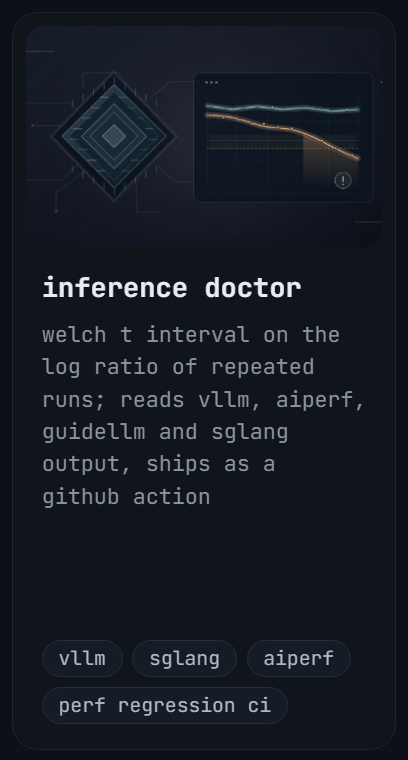
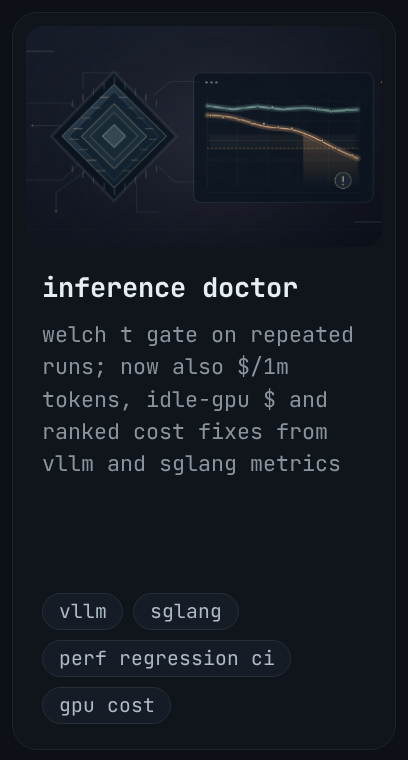
inference doctor card: 0.5.0 cost view

diff --git a/README.md b/README.md
@@ -1,1 +1,1 @@
-<p><a href="https://github.com/vllm-project/production-stack/pull/1089"><picture><source media="(prefers-color-scheme: dark)" srcset="https://raw.githubusercontent.com/dundysm/dundysm/main/img/dark/00-0.png"><img src="https://raw.githubusercontent.com/dundysm/dundysm/main/img/light/00-0.png" width="50.0%" align="top" alt="vllm-project/production-stack#1089: prefix-aware routing fell back to windowed qps, which pinned sessions to saturated backends; now least-inflight"></picture></a><a href="https://github.com/google-deepmind/mujoco_menagerie/pull/334"><picture><source media="(prefers-color-scheme: dark)" srcset="https://raw.githubusercontent.com/dundysm/dundysm/main/img/dark/00-1.png"><img src="https://raw.githubusercontent.com/dundysm/dundysm/main/img/light/00-1.png" width="50.0%" align="top" alt="google-deepmind/mujoco_menagerie#334: go2 mjx back-thigh range and calf torque (24 vs 45.43 nm) had drifted from the urdf; now they match"></picture></a><a href="https://github.com/ray-project/ray/pull/66307"><picture><source media="(prefers-color-scheme: dark)" srcset="https://raw.githubusercontent.com/dundysm/dundysm/main/img/dark/01-0.png"><img src="https://raw.githubusercontent.com/dundysm/dundysm/main/img/light/01-0.png" width="50.0%" align="top" alt="ray-project/ray#66307: handle-metric staleness compared clocks across machines; now aged by the controller&#x27;s monotonic receive time"></picture></a><a href="https://github.com/moveit/moveit2/pull/3853"><picture><source media="(prefers-color-scheme: dark)" srcset="https://raw.githubusercontent.com/dundysm/dundysm/main/img/dark/01-1.png"><img src="https://raw.githubusercontent.com/dundysm/dundysm/main/img/light/01-1.png" width="50.0%" align="top" alt="moveit/moveit2#3853: execution_complete_ was a plain bool read outside its mutex, a c++ data race; now std::atomic"></picture></a><a href="https://github.com/ai-dynamo/dynamo/pull/15371"><picture><source media="(prefers-color-scheme: dark)" srcset="https://raw.githubusercontent.com/dundysm/dundysm/main/img/dark/02-0.png"><img src="https://raw.githubusercontent.com/dundysm/dundysm/main/img/light/02-0.png" width="50.0%" align="top" alt="ai-dynamo/dynamo#15371: p/d decode dropped multi_modal_data, so same-size images collided in the prefix cache and reused each other&#x27;s kv"></picture></a><a href="https://github.com/newton-physics/newton/pull/4780"><picture><source media="(prefers-color-scheme: dark)" srcset="https://raw.githubusercontent.com/dundysm/dundysm/main/img/dark/02-1.png"><img src="https://raw.githubusercontent.com/dundysm/dundysm/main/img/light/02-1.png" width="50.0%" align="top" alt="newton-physics/newton#4780: mjcf import parsed a mesh file again for every geom using it; now once per import (go2: 1924 → 972 ms)"></picture></a><a href="https://github.com/NVIDIA/TensorRT-Model-Connect/pull/1284"><picture><source media="(prefers-color-scheme: dark)" srcset="https://raw.githubusercontent.com/dundysm/dundysm/main/img/dark/03-0.png"><img src="https://raw.githubusercontent.com/dundysm/dundysm/main/img/light/03-0.png" width="50.0%" align="top" alt="NVIDIA/TensorRT-Model-Connect#1284: zephyr and tinyllama chat templates were misdetected as phi, so the first decode step returned eos"></picture></a><a href="https://github.com/Roboparty/rpo_description/pull/5"><picture><source media="(prefers-color-scheme: dark)" srcset="https://raw.githubusercontent.com/dundysm/dundysm/main/img/dark/03-1.png"><img src="https://raw.githubusercontent.com/dundysm/dundysm/main/img/light/03-1.png" width="50.0%" align="top" alt="Roboparty/rpo_description#5: 15 mjcf joint ranges and every motor limit had drifted from the urdf; synced, plus a script that fails on drift"></picture></a><a href="https://github.com/ai-dynamo/aiperf/pull/1419"><picture><source media="(prefers-color-scheme: dark)" srcset="https://raw.githubusercontent.com/dundysm/dundysm/main/img/dark/04-0.png"><img src="https://raw.githubusercontent.com/dundysm/dundysm/main/img/light/04-0.png" width="50.0%" align="top" alt="ai-dynamo/aiperf#1419: a missing dcgm hostname label failed validation inside a swallowed task and hung aiperf profile"></picture></a><a href="https://github.com/Roboparty/human-humanoid-tools/pull/14"><picture><source media="(prefers-color-scheme: dark)" srcset="https://raw.githubusercontent.com/dundysm/dundysm/main/img/dark/04-1.png"><img src="https://raw.githubusercontent.com/dundysm/dundysm/main/img/light/04-1.png" width="50.0%" align="top" alt="Roboparty/human-humanoid-tools#14: the wheel never shipped the reference poses, so lafan retargeting fell back to a synthetic rest pose; now packaged"></picture></a><a href="https://github.com/kubernetes-sigs/kueue/pull/16630"><picture><source media="(prefers-color-scheme: dark)" srcset="https://raw.githubusercontent.com/dundysm/dundysm/main/img/dark/05-0.png"><img src="https://raw.githubusercontent.com/dundysm/dundysm/main/img/light/05-0.png" width="50.0%" align="top" alt="kubernetes-sigs/kueue#16630: a new leader could schedule from a half-filled cache, so occupied nodes looked free and cohort quota went missing; now it waits for the initial sync"></picture></a><a href="https://github.com/flashinfer-ai/flashinfer/pull/5335"><picture><source media="(prefers-color-scheme: dark)" srcset="https://raw.githubusercontent.com/dundysm/dundysm/main/img/dark/05-1.png"><img src="https://raw.githubusercontent.com/dundysm/dundysm/main/img/light/05-1.png" width="50.0%" align="top" alt="flashinfer-ai/flashinfer#5335: the blackwell gdn kernel freed a tmem stage while loads from it were in flight, so the next mma could overwrite it; now fenced"></picture></a><a href="https://github.com/NVIDIA/gpu-operator/pull/2843"><picture><source media="(prefers-color-scheme: dark)" srcset="https://raw.githubusercontent.com/dundysm/dundysm/main/img/dark/06-0.png"><img src="https://raw.githubusercontent.com/dundysm/dundysm/main/img/light/06-0.png" width="50.0%" align="top" alt="NVIDIA/gpu-operator#2843: the operator and its helm hook jobs ran without a securityContext; restricted defaults for k8s and openshift"></picture></a><a href="https://github.com/NVIDIA/TransformerEngine/pull/3565"><picture><source media="(prefers-color-scheme: dark)" srcset="https://raw.githubusercontent.com/dundysm/dundysm/main/img/dark/06-1.png"><img src="https://raw.githubusercontent.com/dundysm/dundysm/main/img/light/06-1.png" width="50.0%" align="top" alt="NVIDIA/TransformerEngine#3565: non-fp8 gemm never set cublaslt&#x27;s bias dtype, so a bf16 bias read as fp32 ran out of bounds; now rejected"></picture></a><a href="https://github.com/Mellanox/network-operator/pull/3189"><picture><source media="(prefers-color-scheme: dark)" srcset="https://raw.githubusercontent.com/dundysm/dundysm/main/img/dark/07-0.png"><img src="https://raw.githubusercontent.com/dundysm/dundysm/main/img/light/07-0.png" width="50.0%" align="top" alt="Mellanox/network-operator#3189: the rdma shared device plugin assumed /var/lib/kubelet; the kubelet root is now configurable through helm"></picture></a><a href="https://github.com/huggingface/candle/pull/3973"><picture><source media="(prefers-color-scheme: dark)" srcset="https://raw.githubusercontent.com/dundysm/dundysm/main/img/dark/07-1.png"><img src="https://raw.githubusercontent.com/dundysm/dundysm/main/img/light/07-1.png" width="50.0%" align="top" alt="huggingface/candle#3973: rms_norm always failed on an unconditional bias lookup and lazy VarMap init broke; both work again"></picture></a><a href="https://github.com/Mellanox/maintenance-operator/pull/243"><picture><source media="(prefers-color-scheme: dark)" srcset="https://raw.githubusercontent.com/dundysm/dundysm/main/img/dark/08-0.png"><img src="https://raw.githubusercontent.com/dundysm/dundysm/main/img/light/08-0.png" width="50.0%" align="top" alt="Mellanox/maintenance-operator#243: the controller oomkilled at 128Mi on ~141 nodes (idle 130-156Mi); raised to 256Mi with sizing guidance"></picture></a><a href="https://github.com/NVIDIA-NeMo/Automodel/pull/3999"><picture><source media="(prefers-color-scheme: dark)" srcset="https://raw.githubusercontent.com/dundysm/dundysm/main/img/dark/08-1.png"><img src="https://raw.githubusercontent.com/dundysm/dundysm/main/img/light/08-1.png" width="50.0%" align="top" alt="NVIDIA-NeMo/Automodel#3999: nemotron-h checkpoints saved with a singular embedding key failed dtensor load; both key forms now map"></picture></a><a href="https://github.com/search?q=author%3Adundysm+is%3Apr+is%3Aopen+-user%3Adundysm&amp;type=pullrequests"><picture><source media="(prefers-color-scheme: dark)" srcset="https://raw.githubusercontent.com/dundysm/dundysm/main/img/dark/09-0.png"><img src="https://raw.githubusercontent.com/dundysm/dundysm/main/img/light/09-0.png" width="100%" align="top" alt="in progress: open prs upstream; built"></picture></a><a href="https://github.com/dundysm/occlubench"><picture><source media="(prefers-color-scheme: dark)" srcset="https://raw.githubusercontent.com/dundysm/dundysm/main/img/dark/10-0.png"><img src="https://raw.githubusercontent.com/dundysm/dundysm/main/img/light/10-0.png" width="25.0306%" align="top" alt="occlubench: a mocap plate slides into one camera mid-episode; every occluded rollout is paired with a clean one, on mujoco warp"></picture></a><a href="https://github.com/dundysm/inference-under-pressure"><picture><source media="(prefers-color-scheme: dark)" srcset="https://raw.githubusercontent.com/dundysm/dundysm/main/img/dark/10-1.png"><img src="https://raw.githubusercontent.com/dundysm/dundysm/main/img/light/10-1.png" width="24.9693%" align="top" alt="inference under pressure: pre-registered vllm + dynamo experiments on kv budget, session affinity and kv-aware routing, from one a40 to 2× l40s"></picture></a><a href="https://github.com/dundysm/gaitkeeper"><picture><source media="(prefers-color-scheme: dark)" srcset="https://raw.githubusercontent.com/dundysm/dundysm/main/img/dark/10-2.png"><img src="https://raw.githubusercontent.com/dundysm/dundysm/main/img/light/10-2.png" width="24.9693%" align="top" alt="gaitkeeper: checks obs → action → effort → next state against a golden trace to tell contract, physics and task failures apart"></picture></a><a href="https://github.com/dundysm/inference-doctor"><picture><source media="(prefers-color-scheme: dark)" srcset="https://raw.githubusercontent.com/dundysm/dundysm/main/img/dark/10-3.png"><img src="https://raw.githubusercontent.com/dundysm/dundysm/main/img/light/10-3.png" width="25.0306%" align="top" alt="inference doctor: welch t interval on the log ratio of repeated runs; reads vllm, aiperf, guidellm and sglang output, ships as a github action"></picture></a><a href="https://dundysm.github.io/center-of-mass/"><picture><source media="(prefers-color-scheme: dark)" srcset="https://raw.githubusercontent.com/dundysm/dundysm/main/img/dark/11-0.png"><img src="https://raw.githubusercontent.com/dundysm/dundysm/main/img/light/11-0.png" width="25.0306%" align="top" alt="center of mass: mujoco wasm at 200 hz runs unitree&#x27;s g1 policy at 50 hz; a gaussian-splat scan becomes collision boxes with a* paths"></picture></a><a href="https://dundysm.github.io/forgetting/"><picture><source media="(prefers-color-scheme: dark)" srcset="https://raw.githubusercontent.com/dundysm/dundysm/main/img/dark/11-1.png"><img src="https://raw.githubusercontent.com/dundysm/dundysm/main/img/light/11-1.png" width="24.9693%" align="top" alt="forgetting: replays vllm v1&#x27;s lru block manager over measured runs; each kv token slot is a point on an mri-derived cortex in three.js"></picture></a><a href="https://chromewebstore.google.com/detail/retinaflow/pldbmpjgjikjadekeikikhomahjeplee"><picture><source media="(prefers-color-scheme: dark)" srcset="https://raw.githubusercontent.com/dundysm/dundysm/main/img/dark/11-2.png"><img src="https://raw.githubusercontent.com/dundysm/dundysm/main/img/light/11-2.png" width="24.9693%" align="top" alt="retinaflow: mv3 extension: web speech dictation → claude via a cloudflare worker → an action plan that fills the emr&#x27;s exam and plan fields"></picture></a><a href="https://github.com/dundysm/sea-of-fog"><picture><source media="(prefers-color-scheme: dark)" srcset="https://raw.githubusercontent.com/dundysm/dundysm/main/img/dark/11-3.png"><img src="https://raw.githubusercontent.com/dundysm/dundysm/main/img/light/11-3.png" width="25.0306%" align="top" alt="sea of fog: typesafe&#x27;s new jev model takes napoleon&#x27;s bait at austerlitz 79% of the time; one warning line cuts that to 44%"></picture></a></p>
+<p><a href="https://github.com/vllm-project/production-stack/pull/1089"><picture><source media="(prefers-color-scheme: dark)" srcset="https://raw.githubusercontent.com/dundysm/dundysm/main/img/dark/00-0.png"><img src="https://raw.githubusercontent.com/dundysm/dundysm/main/img/light/00-0.png" width="50.0%" align="top" alt="vllm-project/production-stack#1089: prefix-aware routing fell back to windowed qps, which pinned sessions to saturated backends; now least-inflight"></picture></a><a href="https://github.com/google-deepmind/mujoco_menagerie/pull/334"><picture><source media="(prefers-color-scheme: dark)" srcset="https://raw.githubusercontent.com/dundysm/dundysm/main/img/dark/00-1.png"><img src="https://raw.githubusercontent.com/dundysm/dundysm/main/img/light/00-1.png" width="50.0%" align="top" alt="google-deepmind/mujoco_menagerie#334: go2 mjx back-thigh range and calf torque (24 vs 45.43 nm) had drifted from the urdf; now they match"></picture></a><a href="https://github.com/ray-project/ray/pull/66307"><picture><source media="(prefers-color-scheme: dark)" srcset="https://raw.githubusercontent.com/dundysm/dundysm/main/img/dark/01-0.png"><img src="https://raw.githubusercontent.com/dundysm/dundysm/main/img/light/01-0.png" width="50.0%" align="top" alt="ray-project/ray#66307: handle-metric staleness compared clocks across machines; now aged by the controller&#x27;s monotonic receive time"></picture></a><a href="https://github.com/moveit/moveit2/pull/3853"><picture><source media="(prefers-color-scheme: dark)" srcset="https://raw.githubusercontent.com/dundysm/dundysm/main/img/dark/01-1.png"><img src="https://raw.githubusercontent.com/dundysm/dundysm/main/img/light/01-1.png" width="50.0%" align="top" alt="moveit/moveit2#3853: execution_complete_ was a plain bool read outside its mutex, a c++ data race; now std::atomic"></picture></a><a href="https://github.com/ai-dynamo/dynamo/pull/15371"><picture><source media="(prefers-color-scheme: dark)" srcset="https://raw.githubusercontent.com/dundysm/dundysm/main/img/dark/02-0.png"><img src="https://raw.githubusercontent.com/dundysm/dundysm/main/img/light/02-0.png" width="50.0%" align="top" alt="ai-dynamo/dynamo#15371: p/d decode dropped multi_modal_data, so same-size images collided in the prefix cache and reused each other&#x27;s kv"></picture></a><a href="https://github.com/newton-physics/newton/pull/4780"><picture><source media="(prefers-color-scheme: dark)" srcset="https://raw.githubusercontent.com/dundysm/dundysm/main/img/dark/02-1.png"><img src="https://raw.githubusercontent.com/dundysm/dundysm/main/img/light/02-1.png" width="50.0%" align="top" alt="newton-physics/newton#4780: mjcf import parsed a mesh file again for every geom using it; now once per import (go2: 1924 → 972 ms)"></picture></a><a href="https://github.com/NVIDIA/TensorRT-Model-Connect/pull/1284"><picture><source media="(prefers-color-scheme: dark)" srcset="https://raw.githubusercontent.com/dundysm/dundysm/main/img/dark/03-0.png"><img src="https://raw.githubusercontent.com/dundysm/dundysm/main/img/light/03-0.png" width="50.0%" align="top" alt="NVIDIA/TensorRT-Model-Connect#1284: zephyr and tinyllama chat templates were misdetected as phi, so the first decode step returned eos"></picture></a><a href="https://github.com/Roboparty/rpo_description/pull/5"><picture><source media="(prefers-color-scheme: dark)" srcset="https://raw.githubusercontent.com/dundysm/dundysm/main/img/dark/03-1.png"><img src="https://raw.githubusercontent.com/dundysm/dundysm/main/img/light/03-1.png" width="50.0%" align="top" alt="Roboparty/rpo_description#5: 15 mjcf joint ranges and every motor limit had drifted from the urdf; synced, plus a script that fails on drift"></picture></a><a href="https://github.com/ai-dynamo/aiperf/pull/1419"><picture><source media="(prefers-color-scheme: dark)" srcset="https://raw.githubusercontent.com/dundysm/dundysm/main/img/dark/04-0.png"><img src="https://raw.githubusercontent.com/dundysm/dundysm/main/img/light/04-0.png" width="50.0%" align="top" alt="ai-dynamo/aiperf#1419: a missing dcgm hostname label failed validation inside a swallowed task and hung aiperf profile"></picture></a><a href="https://github.com/Roboparty/human-humanoid-tools/pull/14"><picture><source media="(prefers-color-scheme: dark)" srcset="https://raw.githubusercontent.com/dundysm/dundysm/main/img/dark/04-1.png"><img src="https://raw.githubusercontent.com/dundysm/dundysm/main/img/light/04-1.png" width="50.0%" align="top" alt="Roboparty/human-humanoid-tools#14: the wheel never shipped the reference poses, so lafan retargeting fell back to a synthetic rest pose; now packaged"></picture></a><a href="https://github.com/kubernetes-sigs/kueue/pull/16630"><picture><source media="(prefers-color-scheme: dark)" srcset="https://raw.githubusercontent.com/dundysm/dundysm/main/img/dark/05-0.png"><img src="https://raw.githubusercontent.com/dundysm/dundysm/main/img/light/05-0.png" width="50.0%" align="top" alt="kubernetes-sigs/kueue#16630: a new leader could schedule from a half-filled cache, so occupied nodes looked free and cohort quota went missing; now it waits for the initial sync"></picture></a><a href="https://github.com/flashinfer-ai/flashinfer/pull/5335"><picture><source media="(prefers-color-scheme: dark)" srcset="https://raw.githubusercontent.com/dundysm/dundysm/main/img/dark/05-1.png"><img src="https://raw.githubusercontent.com/dundysm/dundysm/main/img/light/05-1.png" width="50.0%" align="top" alt="flashinfer-ai/flashinfer#5335: the blackwell gdn kernel freed a tmem stage while loads from it were in flight, so the next mma could overwrite it; now fenced"></picture></a><a href="https://github.com/NVIDIA/gpu-operator/pull/2843"><picture><source media="(prefers-color-scheme: dark)" srcset="https://raw.githubusercontent.com/dundysm/dundysm/main/img/dark/06-0.png"><img src="https://raw.githubusercontent.com/dundysm/dundysm/main/img/light/06-0.png" width="50.0%" align="top" alt="NVIDIA/gpu-operator#2843: the operator and its helm hook jobs ran without a securityContext; restricted defaults for k8s and openshift"></picture></a><a href="https://github.com/NVIDIA/TransformerEngine/pull/3565"><picture><source media="(prefers-color-scheme: dark)" srcset="https://raw.githubusercontent.com/dundysm/dundysm/main/img/dark/06-1.png"><img src="https://raw.githubusercontent.com/dundysm/dundysm/main/img/light/06-1.png" width="50.0%" align="top" alt="NVIDIA/TransformerEngine#3565: non-fp8 gemm never set cublaslt&#x27;s bias dtype, so a bf16 bias read as fp32 ran out of bounds; now rejected"></picture></a><a href="https://github.com/Mellanox/network-operator/pull/3189"><picture><source media="(prefers-color-scheme: dark)" srcset="https://raw.githubusercontent.com/dundysm/dundysm/main/img/dark/07-0.png"><img src="https://raw.githubusercontent.com/dundysm/dundysm/main/img/light/07-0.png" width="50.0%" align="top" alt="Mellanox/network-operator#3189: the rdma shared device plugin assumed /var/lib/kubelet; the kubelet root is now configurable through helm"></picture></a><a href="https://github.com/huggingface/candle/pull/3973"><picture><source media="(prefers-color-scheme: dark)" srcset="https://raw.githubusercontent.com/dundysm/dundysm/main/img/dark/07-1.png"><img src="https://raw.githubusercontent.com/dundysm/dundysm/main/img/light/07-1.png" width="50.0%" align="top" alt="huggingface/candle#3973: rms_norm always failed on an unconditional bias lookup and lazy VarMap init broke; both work again"></picture></a><a href="https://github.com/Mellanox/maintenance-operator/pull/243"><picture><source media="(prefers-color-scheme: dark)" srcset="https://raw.githubusercontent.com/dundysm/dundysm/main/img/dark/08-0.png"><img src="https://raw.githubusercontent.com/dundysm/dundysm/main/img/light/08-0.png" width="50.0%" align="top" alt="Mellanox/maintenance-operator#243: the controller oomkilled at 128Mi on ~141 nodes (idle 130-156Mi); raised to 256Mi with sizing guidance"></picture></a><a href="https://github.com/NVIDIA-NeMo/Automodel/pull/3999"><picture><source media="(prefers-color-scheme: dark)" srcset="https://raw.githubusercontent.com/dundysm/dundysm/main/img/dark/08-1.png"><img src="https://raw.githubusercontent.com/dundysm/dundysm/main/img/light/08-1.png" width="50.0%" align="top" alt="NVIDIA-NeMo/Automodel#3999: nemotron-h checkpoints saved with a singular embedding key failed dtensor load; both key forms now map"></picture></a><a href="https://github.com/search?q=author%3Adundysm+is%3Apr+is%3Aopen+-user%3Adundysm&amp;type=pullrequests"><picture><source media="(prefers-color-scheme: dark)" srcset="https://raw.githubusercontent.com/dundysm/dundysm/main/img/dark/09-0.png"><img src="https://raw.githubusercontent.com/dundysm/dundysm/main/img/light/09-0.png" width="100%" align="top" alt="in progress: open prs upstream; built"></picture></a><a href="https://github.com/dundysm/occlubench"><picture><source media="(prefers-color-scheme: dark)" srcset="https://raw.githubusercontent.com/dundysm/dundysm/main/img/dark/10-0.png"><img src="https://raw.githubusercontent.com/dundysm/dundysm/main/img/light/10-0.png" width="25.0306%" align="top" alt="occlubench: a mocap plate slides into one camera mid-episode; every occluded rollout is paired with a clean one, on mujoco warp"></picture></a><a href="https://github.com/dundysm/inference-under-pressure"><picture><source media="(prefers-color-scheme: dark)" srcset="https://raw.githubusercontent.com/dundysm/dundysm/main/img/dark/10-1.png"><img src="https://raw.githubusercontent.com/dundysm/dundysm/main/img/light/10-1.png" width="24.9693%" align="top" alt="inference under pressure: pre-registered vllm + dynamo experiments on kv budget, session affinity and kv-aware routing, from one a40 to 2× l40s"></picture></a><a href="https://github.com/dundysm/gaitkeeper"><picture><source media="(prefers-color-scheme: dark)" srcset="https://raw.githubusercontent.com/dundysm/dundysm/main/img/dark/10-2.png"><img src="https://raw.githubusercontent.com/dundysm/dundysm/main/img/light/10-2.png" width="24.9693%" align="top" alt="gaitkeeper: checks obs → action → effort → next state against a golden trace to tell contract, physics and task failures apart"></picture></a><a href="https://github.com/dundysm/inference-doctor"><picture><source media="(prefers-color-scheme: dark)" srcset="https://raw.githubusercontent.com/dundysm/dundysm/main/img/dark/10-3.png"><img src="https://raw.githubusercontent.com/dundysm/dundysm/main/img/light/10-3.png" width="25.0306%" align="top" alt="inference doctor: welch t gate on repeated runs; now also $/1m tokens, idle-gpu $ and ranked cost fixes from vllm and sglang metrics"></picture></a><a href="https://dundysm.github.io/center-of-mass/"><picture><source media="(prefers-color-scheme: dark)" srcset="https://raw.githubusercontent.com/dundysm/dundysm/main/img/dark/11-0.png"><img src="https://raw.githubusercontent.com/dundysm/dundysm/main/img/light/11-0.png" width="25.0306%" align="top" alt="center of mass: mujoco wasm at 200 hz runs unitree&#x27;s g1 policy at 50 hz; a gaussian-splat scan becomes collision boxes with a* paths"></picture></a><a href="https://dundysm.github.io/forgetting/"><picture><source media="(prefers-color-scheme: dark)" srcset="https://raw.githubusercontent.com/dundysm/dundysm/main/img/dark/11-1.png"><img src="https://raw.githubusercontent.com/dundysm/dundysm/main/img/light/11-1.png" width="24.9693%" align="top" alt="forgetting: replays vllm v1&#x27;s lru block manager over measured runs; each kv token slot is a point on an mri-derived cortex in three.js"></picture></a><a href="https://chromewebstore.google.com/detail/retinaflow/pldbmpjgjikjadekeikikhomahjeplee"><picture><source media="(prefers-color-scheme: dark)" srcset="https://raw.githubusercontent.com/dundysm/dundysm/main/img/dark/11-2.png"><img src="https://raw.githubusercontent.com/dundysm/dundysm/main/img/light/11-2.png" width="24.9693%" align="top" alt="retinaflow: mv3 extension: web speech dictation → claude via a cloudflare worker → an action plan that fills the emr&#x27;s exam and plan fields"></picture></a><a href="https://github.com/dundysm/sea-of-fog"><picture><source media="(prefers-color-scheme: dark)" srcset="https://raw.githubusercontent.com/dundysm/dundysm/main/img/dark/11-3.png"><img src="https://raw.githubusercontent.com/dundysm/dundysm/main/img/light/11-3.png" width="25.0306%" align="top" alt="sea of fog: typesafe&#x27;s new jev model takes napoleon&#x27;s bait at austerlitz 79% of the time; one warning line cuts that to 44%"></picture></a></p>
